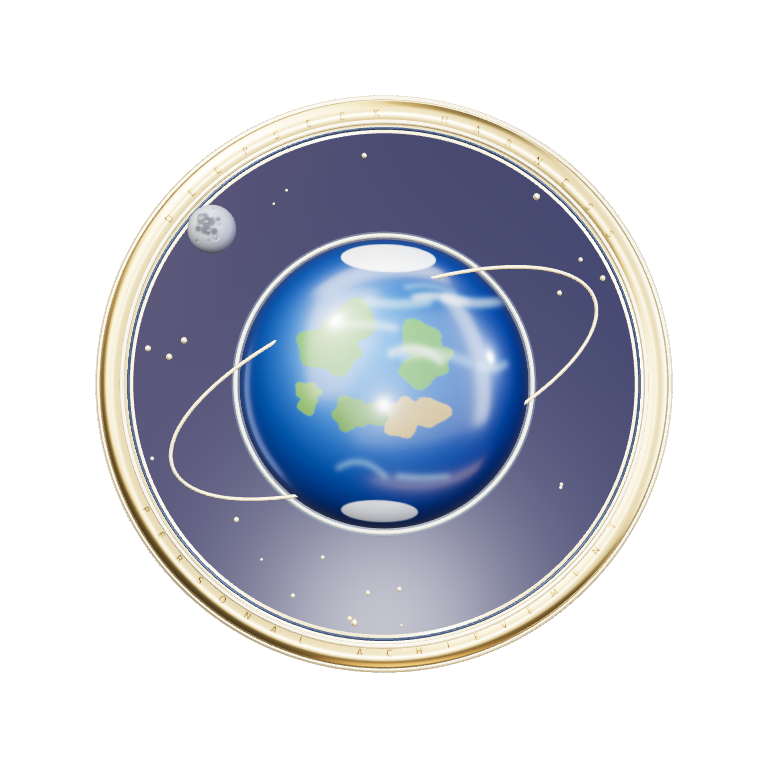
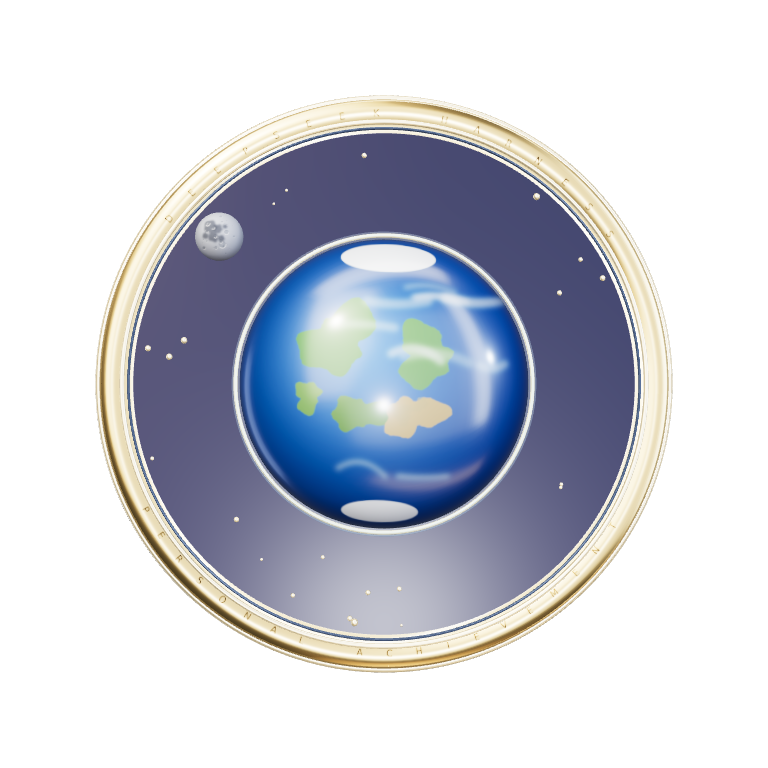
feat: replace the black hole tier with the Solar System, drop orbit rings
- 3B monthly tier becomes 行星巡礼 (Grand Tour): the Sun at the upper left
  and the eight planets in order along a diagonal, Saturn with tilted
  rings, no drawn orbits. Design id blackhole -> solarsystem.
- Earth and Sun medals: companions are full spheres; the orbit rings,
  which are not physical and clipped through Earth, are removed.
- ADR 0004 records the revision; glossary, challenges doc and PRODUCT.md
  updated; fallback renders regenerated.

Claude-Session: https://claude.ai/code/session_017K4q8NCxxJiamcn8Hjb6MX

diff --git a/src/medal-renderer.js b/src/medal-renderer.js
@@ -71,7 +71,7 @@ function palette(medal) {
   if (medal.design === 'numeric') { const field = {daily:'#a21649',weekly:'#075b5d',monthly:'#482340',days:'#214e7d'}[medal.series] || '#265b9a'; return {metal:medal.metal==='gold'?'#c6a05b':'#bdc5ce',bright:medal.metal==='gold'?'#f3d18c':'#edf0f5',field,dark:medal.metal==='gold'?'#6c4a23':'#4a5665'}; }
   if (medal.locked) return { metal: '#7a8592', bright: '#c8d2db', field: '#18212c', dark: '#35404b' };
   const design=medal.design||medal.id;
-  const fields={evergreen:'#164b3c',compass:'#14394b',rosette:'#ede7d9',starfire:'#0e3a60',starchart:'#2a1d55',starriver:'#06071a',moon:'#0e1830',earth:'#0b1a33',sun:'#1c1026',blackhole:'#050509'};
+  const fields={evergreen:'#164b3c',compass:'#14394b',rosette:'#ede7d9',starfire:'#0e3a60',starchart:'#2a1d55',starriver:'#06071a',moon:'#0e1830',earth:'#0b1a33',sun:'#1c1026',solarsystem:'#07091a'};
   if(fields[design])return {metal:design==='compass'||design==='moon'?'#bdcddd':'#deb976',bright:design==='compass'||design==='moon'?'#edf4ff':'#ffe8b5',field:fields[design],dark:'#526078'};
   if (design === 'rise') return { metal: '#c8d9e3', bright: '#f3f5ff', field: '#103b35', dark: '#61778b' };
   if (design === 'dawn') return { metal: '#dfad76', bright: '#ffe0b0', field: '#25213c', dark: '#8d552f' };
@@ -87,9 +87,9 @@ function materials(medal) {
   const recess = new THREE.MeshStandardMaterial({ color: p.dark, metalness: 1, roughness: .37 });
   const enamel = new THREE.MeshPhysicalMaterial({ color: p.field, metalness: .34, roughness: .24, clearcoat: .92, clearcoatRoughness: .12, bumpMap: engineTurnedTexture(), bumpScale: .0014 });
   // Deep night-sky enamel: low reflectance so the field reads near-black under the studio light.
-  const field=['starriver','moon','earth','sun','blackhole'].includes(medal.design)&&!medal.locked?new THREE.MeshPhysicalMaterial({color:p.field,metalness:0,roughness:.42,specularIntensity:.25,clearcoat:.3,clearcoatRoughness:.22,iridescence:.35,iridescenceIOR:1.3,iridescenceThicknessRange:[380,620],bumpMap:enamel.bumpMap,bumpScale:.0014}):enamel;
+  const field=['starriver','moon','earth','sun','solarsystem'].includes(medal.design)&&!medal.locked?new THREE.MeshPhysicalMaterial({color:p.field,metalness:0,roughness:.42,specularIntensity:.25,clearcoat:.3,clearcoatRoughness:.22,iridescence:.35,iridescenceIOR:1.3,iridescenceThicknessRange:[380,620],bumpMap:enamel.bumpMap,bumpScale:.0014}):enamel;
   // Deeper cosmic fields: less specular so the enamel colour carries.
-  const depth={starfire:.55,starchart:.45,moon:.4,earth:.4,sun:.4,blackhole:.25}[medal.design];if(depth&&!medal.locked)enamel.specularIntensity=depth;
+  const depth={starfire:.55,starchart:.45,moon:.4,earth:.4,sun:.4,solarsystem:.3}[medal.design];if(depth&&!medal.locked)enamel.specularIntensity=depth;
   if(medallion){satin.metalness=.82;polished.metalness=.84;polished.roughness=.22;}
   return { satin, polished, recess, enamel:field, palette: p };
 }
@@ -647,11 +647,16 @@ function sunSurface(locked){
 }
 function bodyMaterial(canvas,options={}){const map=canvasTexture(canvas,true),bumpCanvas=paint(512,ctx=>ctx.drawImage(canvas,0,0,512,512));return new THREE.MeshPhysicalMaterial({color:'#ffffff',map,bumpMap:canvasTexture(bumpCanvas),bumpScale:.004,metalness:.05,roughness:.75,...options});}
 function starfield(group,m,seed,count,inner=.62,outer=.86){const random=seeded(seed);for(let i=0;i<count;i++){const a=random()*TAU,r=inner+random()*(outer-inner);bead(group,.005+random()*.009,r*Math.cos(a),r*Math.sin(a),.092,m.polished);}}
-function orbitPath(group,m,rx,ry,tilt,z,radius=.007){const path=[];for(let i=0;i<160;i++){const t=i/160*TAU;path.push(new THREE.Vector3(Math.cos(t)*rx,Math.sin(t)*ry,z+Math.sin(t)*.06));}const o=curveTube(group,path,radius,m.polished,true);o.rotation.z=tilt;return o;}
 function moonBody(group,medal,m){
   circularCase(group,medal,m);starfield(group,m,3,26,.66,.88);
   dome(group,.6,.086,.3,bodyMaterial(moonSurface(medal.locked),{bumpScale:.009,roughness:.9}));
   ring(group,.605,.012,.09,m.polished);
+}
+// A full sphere resting above the field, textured from the front like dome().
+function globe(group,radius,material,x,y){
+  const geometry=new THREE.SphereGeometry(radius,64,48),position=geometry.attributes.position,uv=geometry.attributes.uv;
+  for(let i=0;i<uv.count;i++)uv.setXY(i,position.getX(i)/radius*.5+.5,position.getY(i)/radius*.5+.5);
+  return mesh(group,geometry,material,x,y,.1+radius);
 }
 function earthBody(group,medal,m){
   circularCase(group,medal,m);starfield(group,m,4,22,.66,.88);
@@ -660,38 +665,59 @@ function earthBody(group,medal,m){
   // Thin atmosphere glow at the limb.
   const atmosphere=new THREE.MeshPhysicalMaterial({color:medal.locked?'#8a929c':'#7fc4ff',transparent:true,opacity:.35,roughness:.2,metalness:0});ring(group,.53,.018,.1,atmosphere);
   ring(group,.535,.008,.09,m.polished);
-  orbitPath(group,m,.8,.3,.42,.2);
-  const moon=dome(group,.085,0,.07,bodyMaterial(moonSurface(medal.locked)));moon.position.set(-.62,.52,.24);
+  globe(group,.085,bodyMaterial(moonSurface(medal.locked),{bumpScale:.003,roughness:.9}),-.6,.5);
 }
+function sunHalo(group,medal,radius,x=0,y=0){
+  if(medal.locked)return;
+  const halo=paint(512,(ctx,w)=>{const g=ctx.createRadialGradient(w/2,w/2,w*.3,w/2,w/2,w/2);g.addColorStop(0,'rgba(255,214,130,.9)');g.addColorStop(.35,'rgba(255,170,70,.35)');g.addColorStop(1,'rgba(255,120,40,0)');ctx.fillStyle=g;ctx.fillRect(0,0,w,w);});
+  mesh(group,new THREE.RingGeometry(radius*.98,radius*1.6,128,2),new THREE.MeshBasicMaterial({map:canvasTexture(halo,true),transparent:true,depthWrite:false,blending:THREE.AdditiveBlending,toneMapped:false}),x,y,.095);
+}
+function sunMaterial(locked){const surface=sunSurface(locked);return bodyMaterial(surface,{emissive:locked?'#000000':'#ffffff',emissiveMap:canvasTexture(surface,true),emissiveIntensity:locked?0:.55,roughness:.6});}
 function sunBody(group,medal,m){
   circularCase(group,medal,m);starfield(group,m,5,18,.7,.88);
-  const surface=sunSurface(medal.locked);
-  dome(group,.44,.086,.26,bodyMaterial(surface,{emissive:medal.locked?'#000000':'#ffffff',emissiveMap:canvasTexture(surface,true),emissiveIntensity:medal.locked?0:.55,roughness:.6}));
+  dome(group,.44,.086,.26,sunMaterial(medal.locked));
   // Corona as a soft halo plus a few prominences, so it never reads as the rays of 星火初燃.
-  const halo=paint(512,(ctx,w)=>{const g=ctx.createRadialGradient(w/2,w/2,w*.3,w/2,w/2,w/2);g.addColorStop(0,'rgba(255,214,130,.9)');g.addColorStop(.35,'rgba(255,170,70,.35)');g.addColorStop(1,'rgba(255,120,40,0)');ctx.fillStyle=g;ctx.fillRect(0,0,w,w);});
-  if(!medal.locked)mesh(group,new THREE.RingGeometry(.43,.7,128,2),new THREE.MeshBasicMaterial({map:canvasTexture(halo,true),transparent:true,depthWrite:false,blending:THREE.AdditiveBlending,toneMapped:false}),0,0,.095);
+  sunHalo(group,medal,.44);
   ring(group,.445,.01,.1,m.polished);
   const flare=new THREE.MeshPhysicalMaterial({color:medal.locked?'#8a929c':'#ff9a3c',emissive:medal.locked?'#000000':'#ff7a1a',emissiveIntensity:.6,roughness:.4,metalness:.2});
   for(const [a,size,spread] of [[.8,.17,.22],[2.7,.12,.16],[4.4,.15,.2],[5.6,.09,.12]]){const loop=[];for(let i=0;i<=28;i++){const t=i/28,r=.44+Math.sin(t*Math.PI)*size,b=a+(t-.5)*spread;loop.push(new THREE.Vector3(Math.cos(b)*r,Math.sin(b)*r,.12+Math.sin(t*Math.PI)*.04));}curveTube(group,loop,.014,flare);}
-  orbitPath(group,m,.84,.34,-.35,.18,.005);
-  const earth=dome(group,.07,0,.06,bodyMaterial(earthSurface(medal.locked),{roughness:.35,clearcoat:.8}));earth.position.set(.66,-.42,.22);
+  globe(group,.07,bodyMaterial(earthSurface(medal.locked),{roughness:.35,clearcoat:.8}),.64,-.44);
 }
-function blackholeBody(group,medal,m){
-  circularCase(group,medal,m);starfield(group,m,6,34,.2,.88);
-  const hot=paint(512,(ctx,s)=>{const g=ctx.createRadialGradient(s/2,s/2,s*.2,s/2,s/2,s/2);g.addColorStop(0,'rgba(255,250,235,1)');g.addColorStop(.18,'rgba(255,214,140,.95)');g.addColorStop(.45,'rgba(255,140,60,.7)');g.addColorStop(.75,'rgba(190,60,30,.35)');g.addColorStop(1,'rgba(120,30,20,0)');ctx.fillStyle=g;ctx.fillRect(0,0,s,s);});
-  const glow=new THREE.MeshBasicMaterial({map:canvasTexture(hot,true),transparent:true,depthWrite:false,side:THREE.DoubleSide,toneMapped:false,color:medal.locked?'#7a828c':'#ffffff',opacity:medal.locked?.4:1});
-  // Accretion disk tilted through the hole; the sphere hides its far side.
-  const disk=mesh(group,new THREE.RingGeometry(.26,.8,160,4),glow,0,0,.2);disk.rotation.set(-1.2,0,.18);
-  const shadow=new THREE.MeshBasicMaterial({color:'#000000'});
-  const hole=mesh(group,new THREE.SphereGeometry(.24,64,48),shadow,0,0,.2);
-  // Photon ring and the lensed arc of the far side of the disk.
-  const photon=new THREE.MeshBasicMaterial({color:medal.locked?'#9aa2ab':'#ffe2a8',toneMapped:false});
-  mesh(group,new THREE.TorusGeometry(.255,.006,8,160),photon,0,0,.2);
-  const arc=mesh(group,new THREE.TorusGeometry(.33,.03,12,120,Math.PI),glow,0,.02,.26);arc.scale.set(1.1,.95,.3);arc.rotation.z=.18;
-  ring(group,.86,.008,.1,m.polished);
-  // A star drifting in, trailing a stream into the disk.
-  const star=new THREE.MeshBasicMaterial({color:medal.locked?'#a7aeb6':'#bfe3ff',toneMapped:false});bead(group,.05,.62,.5,.2,star);
-  const stream=[];for(let i=0;i<=40;i++){const t=i/40,a=.68-t*1.9,r=.79-t*.38;stream.push(new THREE.Vector3(Math.cos(a)*r,Math.sin(a)*r*.55+.06,.2+t*.02));}curveTube(group,stream,.008,new THREE.MeshBasicMaterial({color:medal.locked?'#8a929c':'#ffd29a',transparent:true,opacity:.75,toneMapped:false}));
+// Planet faces painted as bands, patches and spots, lit from the upper left like the other bodies.
+function planetSurface(kind,locked){
+  return paint(512,(ctx,s)=>{
+    const random=seeded(kind.length*13+7),grey=c=>locked?'#8f969e':c;
+    const bands=colors=>{const h=s/colors.length;colors.forEach((c,i)=>{ctx.fillStyle=grey(c);ctx.fillRect(0,i*h,s,h+1);});ctx.filter='blur(6px)';ctx.drawImage(ctx.canvas,0,0);ctx.filter='none';};
+    if(kind==='mercury'){ctx.fillStyle=grey('#9a948d');ctx.fillRect(0,0,s,s);for(let i=0;i<40;i++){ctx.fillStyle='rgba(60,55,50,.35)';ctx.beginPath();ctx.arc(random()*s,random()*s,4+random()*18,0,TAU);ctx.fill();}}
+    else if(kind==='venus'){ctx.fillStyle=grey('#e6cb8e');ctx.fillRect(0,0,s,s);ctx.filter='blur(14px)';for(let i=0;i<10;i++){ctx.fillStyle=`rgba(${random()<.5?'255,240,200':'190,140,80'},.45)`;ctx.fillRect(0,random()*s,s,20+random()*40);}ctx.filter='none';}
+    else if(kind==='mars'){ctx.fillStyle=grey('#c4562f');ctx.fillRect(0,0,s,s);ctx.filter='blur(10px)';ctx.fillStyle='rgba(110,40,20,.55)';for(let i=0;i<6;i++)blob(ctx,random,random()*s,(.3+random()*.4)*s,(.08+random()*.1)*s);ctx.filter='none';ctx.fillStyle=grey('#f4eee6');ctx.beginPath();ctx.ellipse(s/2,s*.06,s*.18,s*.06,0,0,TAU);ctx.fill();}
+    else if(kind==='jupiter'){bands(['#e8d8bd','#c48a5f','#f1e4cc','#b06a46','#e9d3ad','#c99467','#f3e7d2','#b8794f','#e5cfaa','#cc9a70']);if(!locked){ctx.fillStyle='#b4532f';ctx.beginPath();ctx.ellipse(s*.62,s*.64,s*.11,s*.06,0,0,TAU);ctx.fill();}}
+    else if(kind==='saturn')bands(['#efe0b9','#d8bf8a','#f4e8c8','#c9ab73','#ecd9ab','#d3b880','#f1e3bd','#cdb27b']);
+    else if(kind==='uranus'){ctx.fillStyle=grey('#a6dfe6');ctx.fillRect(0,0,s,s);}
+    else if(kind==='neptune'){bands(['#3f63d2','#3456c4','#4a6fdc','#2f4fb8','#4366d6','#3354c0']);}
+    shade(ctx,s,.7);
+  });
+}
+// Sun at the upper left; planets descend along one diagonal, spaced by distance from the Sun.
+const SOLAR_SUN={x:-.45,y:.28,r:.3},SOLAR_DIRECTION=[Math.cos(-Math.PI/6),Math.sin(-Math.PI/6)];
+const solarPlanets=[['mercury',.38,.03],['venus',.47,.046],['earth',.57,.049],['mars',.66,.037],['jupiter',.84,.12],['saturn',1.07,.095],['uranus',1.25,.062],['neptune',1.36,.055]].map(([kind,k,r])=>[kind,SOLAR_SUN.x+SOLAR_DIRECTION[0]*k,SOLAR_SUN.y+SOLAR_DIRECTION[1]*k,r]);
+function solarsystemBody(group,medal,m){
+  circularCase(group,medal,m);starfield(group,m,7,34,.35,.88);
+  // The Sun sits at the upper left; the eight planets follow in order, without drawn orbits.
+  const {x:sx0,y:sy0,r:sr0}=SOLAR_SUN;
+  const sun=dome(group,sr0,.086,.19,sunMaterial(medal.locked));sun.position.set(sx0,sy0,.086);
+  sunHalo(group,medal,sr0,sx0,sy0);
+  const sunRing=ring(group,sr0+.005,.008,.1,m.polished);sunRing.position.set(sx0,sy0,.1);
+  for(const [kind,x,y,r] of solarPlanets){
+    const surface=kind==='earth'?earthSurface(medal.locked):planetSurface(kind,medal.locked);
+    globe(group,r,bodyMaterial(surface,{roughness:kind==='earth'?.35:.6,bumpScale:.001}),x,y);
+  }
+  // Saturn's rings, tilted so the near edge passes in front of the planet.
+  const [,sx,sy,sr]=solarPlanets[5];
+  const bandCanvas=paint(512,(ctx,w)=>{const g=ctx.createRadialGradient(w/2,w/2,w*.3,w/2,w/2,w/2);g.addColorStop(0,'rgba(0,0,0,0)');g.addColorStop(.1,'rgba(230,210,160,.85)');g.addColorStop(.45,'rgba(200,175,120,.55)');g.addColorStop(.55,'rgba(0,0,0,0)');g.addColorStop(.62,'rgba(235,220,180,.8)');g.addColorStop(.95,'rgba(190,165,110,.5)');g.addColorStop(1,'rgba(0,0,0,0)');ctx.fillStyle=g;ctx.fillRect(0,0,w,w);});
+  const rings=mesh(group,new THREE.RingGeometry(sr*1.25,sr*2.05,128,3),new THREE.MeshStandardMaterial({map:canvasTexture(bandCanvas,true),transparent:true,side:THREE.DoubleSide,roughness:.6,metalness:.2,color:medal.locked?'#9aa2ab':'#ffffff',depthWrite:false}),sx,sy,.1+sr);
+  // Tilt first, then turn the long axis across the diagonal so the rings clear Jupiter and Uranus.
+  rings.rotation.set(-1.2,0,Math.PI/3,'ZYX');
 }
 function glyphPath(text, transform = (x,y) => [x,y]) {
   const path = new THREE.ShapePath();
@@ -939,14 +965,14 @@ function drawFeatureLines(ctx,medal){
   }else if(design==='moon'){
     circle(0,0,.6);ctx.lineWidth=.012;for(const [x,y,r] of [[-.18,.16,.12],[.14,.1,.09],[-.05,-.2,.08],[.28,-.22,.05],[-.32,-.08,.045],[.05,.36,.04]])circle(x,y,r);
   }else if(design==='earth'){
-    circle(0,0,.52);ctx.lineWidth=.012;ctx.save();ctx.rotate(.42);ctx.beginPath();ctx.ellipse(0,0,.8,.3,0,0,TAU);ctx.stroke();ctx.restore();circle(-.62,.52,.085);
+    circle(0,0,.52);ctx.lineWidth=.012;circle(-.6,.5,.085);
     line([[-.3,.25],[-.12,.32],[-.05,.18],[-.2,.05],[-.32,.1]],true);line([[.1,.05],[.3,.12],[.32,-.1],[.15,-.22],[.05,-.1]],true);
   }else if(design==='sun'){
-    circle(0,0,.44);ctx.lineWidth=.012;for(let i=0;i<28;i++){const a=i/28*TAU,r=i%2?.55:.63;line([[Math.cos(a-.08)*.44,Math.sin(a-.08)*.44],[Math.cos(a)*r,Math.sin(a)*r],[Math.cos(a+.08)*.44,Math.sin(a+.08)*.44]]);}
-    ctx.save();ctx.rotate(-.35);ctx.beginPath();ctx.ellipse(0,0,.84,.34,0,0,TAU);ctx.stroke();ctx.restore();circle(.66,-.42,.07);
-  }else if(design==='blackhole'){
-    ctx.save();ctx.rotate(.18);ctx.beginPath();ctx.ellipse(0,0,.8,.28,0,0,TAU);ctx.stroke();ctx.beginPath();ctx.ellipse(0,0,.5,.17,0,0,TAU);ctx.stroke();
-    ctx.beginPath();ctx.ellipse(0,.02,.36,.31,0,Math.PI,TAU);ctx.stroke();ctx.restore();circle(0,0,.24);circle(.62,.5,.05);
+    circle(0,0,.44);ctx.lineWidth=.012;for(const [a,size,spread] of [[.8,.17,.22],[2.7,.12,.16],[4.4,.15,.2],[5.6,.09,.12]]){ctx.beginPath();for(let i=0;i<=28;i++){const t=i/28,r=.44+Math.sin(t*Math.PI)*size,b=a+(t-.5)*spread;i?ctx.lineTo(Math.cos(b)*r,Math.sin(b)*r):ctx.moveTo(Math.cos(b)*r,Math.sin(b)*r);}ctx.stroke();}
+    circle(.64,-.44,.07);
+  }else if(design==='solarsystem'){
+    circle(SOLAR_SUN.x,SOLAR_SUN.y,SOLAR_SUN.r);ctx.lineWidth=.012;for(const [,x,y,r] of solarPlanets)circle(x,y,r);
+    const [,sx,sy,sr]=solarPlanets[5];ctx.save();ctx.translate(sx,sy);ctx.rotate(Math.PI/3);ctx.beginPath();ctx.ellipse(0,0,sr*2.05,sr*.75,0,0,TAU);ctx.stroke();ctx.restore();
   }else if(design==='starfire'){
     ctx.lineWidth=.012;circle(0,0,.952);circle(0,0,.86);
     for(let i=0;i<12;i++){ctx.save();ctx.rotate(i*TAU/12);line([[0,.80],[.052,.16],[0,.10],[-.052,.16]],true);ctx.rotate(TAU/24);line([[0,.56],[.036,.16],[0,.10],[-.036,.16]],true);ctx.restore();}
@@ -982,7 +1008,7 @@ function buildMedal(medal) {
   const key = `${medal.id}:${medal.serial}:${medal.period}`;
   if (models.has(key)) return models.get(key);
   const group = new THREE.Group(), m = materialsFor(medal);
-  ({numeric:numericMedal,orbit,rise:growth,dawn,first:milestone,beyond,evergreen,compass,rosette:rosetteMedal,starfire,starchart,starriver,moon:moonBody,earth:earthBody,sun:sunBody,blackhole:blackholeBody}[medal.design||medal.id]||orbit)(group,medal,m);
+  ({numeric:numericMedal,orbit,rise:growth,dawn,first:milestone,beyond,evergreen,compass,rosette:rosetteMedal,starfire,starchart,starriver,moon:moonBody,earth:earthBody,sun:sunBody,solarsystem:solarsystemBody}[medal.design||medal.id]||orbit)(group,medal,m);
   models.set(key, group);
   return group;
 }

diff --git a/src/i18n.js b/src/i18n.js
@@ -60,9 +60,9 @@ export const dictionaries = {
     "series.monthlyVolume": "每月用量挑战",
     "shelf.monthlyVolume": "每月用量",
     "craft.moon": "立体月球浮出珐琅夜空，环形山与月海清晰可辨。",
-    "craft.earth": "蓝绿珐琅地球缓缓自转，月亮沿着倾斜的轨道相伴。",
-    "craft.sun": "金橙色太阳表面布满颗粒，日冕火舌环绕边缘，远处的地球沿轨道运行。",
-    "craft.blackhole": "深黑球体被发光吸积盘环绕，引力把光弯成弧，一颗恒星正被吸入。",
+    "craft.earth": "蓝绿珐琅地球披着一层薄薄的大气，月亮在一旁相伴。",
+    "craft.sun": "金橙色太阳表面布满颗粒，日冕光晕与日珥环绕边缘，远处是一颗小小的地球。",
+    "craft.solarsystem": "太阳在左，八大行星由近及远依次排开，土星托着光环，地球仍在其中。",
     "share": "分享",
     "shareTitle": "分享奖牌",
     "close": "关闭",
@@ -295,9 +295,9 @@ export const dictionaries = {
     "series.monthlyVolume": "Monthly usage",
     "shelf.monthlyVolume": "Monthly usage",
     "craft.moon": "A sculpted moon rises from an enamel night, its craters and maria clearly defined.",
-    "craft.earth": "A blue-green enamel Earth turns slowly, accompanied by its moon on a tilted orbit.",
-    "craft.sun": "A granulated golden sun wreathed in coronal flames, with Earth on a distant orbit.",
-    "craft.blackhole": "A black sphere ringed by a glowing accretion disk; gravity bends the light into an arc as a star falls in.",
+    "craft.earth": "A blue-green enamel Earth wrapped in a thin atmosphere, with its moon close by.",
+    "craft.sun": "A granulated golden sun with a soft corona and prominences, a small Earth in the distance.",
+    "craft.solarsystem": "The Sun at the left and the eight planets in order beyond it, Saturn carrying its rings and Earth among them.",
     "share": "Share",
     "shareTitle": "Share medal",
     "close": "Close",
@@ -457,7 +457,7 @@ export const dictionaries = {
     "medal.tokens-10B": "River of Stars",
     "medal.volume-month-500M": "Blue Home",
     "medal.volume-month-1B": "Solar Corona",
-    "medal.volume-month-3B": "Event Horizon",
+    "medal.volume-month-3B": "Grand Tour",
     "dailyName": "{amount}M in a day",
     "weekDaysName": "{days} days in a week",
     "perfectWeekName": "Perfect week",
@@ -487,7 +487,7 @@ export const dictionaries = {
     "inscription.moon": "Every small step leaves a little light",
     "inscription.earth": "A month of exploration, spun into a blue planet",
     "inscription.sun": "A month of light, gathered into a sun",
-    "inscription.blackhole": "A month so dense not even light escapes"
+    "inscription.solarsystem": "Eight worlds in a single month"
   }
 };
 

diff --git a/src/challenges.js b/src/challenges.js
@@ -11,7 +11,7 @@ const COSMIC=[
   {id:'moon',name:'月面漫游',metal:'silver',inscription:'每一小步，都留下一点光'},
   {id:'earth',name:'蔚蓝家园',metal:'gold',inscription:'一整个月的探索，绕成一颗蓝色星球'},
   {id:'sun',name:'日冕之光',metal:'gold',inscription:'把一个月的光，聚成一颗太阳'},
-  {id:'blackhole',name:'事件视界',metal:'gold',inscription:'连光都无法逃离的一个月'},
+  {id:'solarsystem',name:'行星巡礼',metal:'gold',inscription:'一个月，走完八颗行星'},
 ];
 function crafted(design){
   const {name,metal,inscription}=[...RULES,...COSMIC].find(rule=>rule.id===design)??{name:design,metal:'gold',inscription:'让每一份探索，都有自己的形状'};
@@ -31,7 +31,7 @@ CHALLENGES.push(
   {...crafted('moon'),id:'volume-month',series:'monthlyVolume',family:'period',unit:'month',metric:'tokens',target:200e6,number:'200M',grade:1},
   {...crafted('earth'),id:'volume-month-500M',series:'monthlyVolume',family:'period',unit:'month',metric:'tokens',target:500e6,number:'500M',grade:1},
   {...crafted('sun'),id:'volume-month-1B',series:'monthlyVolume',family:'period',unit:'month',metric:'tokens',target:1e9,number:'1B',grade:2},
-  {...crafted('blackhole'),id:'volume-month-3B',series:'monthlyVolume',family:'period',unit:'month',metric:'tokens',target:3e9,number:'3B',grade:2},
+  {...crafted('solarsystem'),id:'volume-month-3B',series:'monthlyVolume',family:'period',unit:'month',metric:'tokens',target:3e9,number:'3B',grade:2},
   {...crafted('rise'),id:'growth-week',series:'growth',family:'growth',unit:'week',metric:'growth',growth:1,minimum:5e6,number:'100',suffix:'%',grade:1},
   {...crafted('dawn'),id:'growth-month',series:'growth',family:'growth',unit:'month',metric:'growth',growth:2,minimum:20e6,number:'200',suffix:'%',grade:2}
 );

diff --git a/src/http.js b/src/http.js
@@ -1,7 +1,7 @@
 import {readFile} from 'node:fs/promises';
 
 const PREFIX='/api/dsh-medals';
-const STATIC=/^(?:index\.html|styles\.css|app\.js|i18n\.js|theme\.js|medal-renderer\.js|assets\/medals\/(?:orbit|rise|dawn|first|beyond|evergreen|compass|rosette|starfire|starchart|starriver|moon|earth|sun|blackhole|daily-[124]|week-days-[357]|days-(?:7|30)|month-days-(?:10|20))-(?:front|back)\.png)$/;
+const STATIC=/^(?:index\.html|styles\.css|app\.js|i18n\.js|theme\.js|medal-renderer\.js|assets\/medals\/(?:orbit|rise|dawn|first|beyond|evergreen|compass|rosette|starfire|starchart|starriver|moon|earth|sun|solarsystem|daily-[124]|week-days-[357]|days-(?:7|30)|month-days-(?:10|20))-(?:front|back)\.png)$/;
 const mime={html:'text/html; charset=utf-8',css:'text/css; charset=utf-8',js:'text/javascript; charset=utf-8',png:'image/png'};
 function trusted(req) {
   try {

diff --git a/test/challenges.test.js b/test/challenges.test.js
@@ -84,7 +84,7 @@ test('progress publishes fixed thresholds and ineligible growth', () => {
 
 test('monthly usage keeps 月面漫游 at 200M and adds three larger tiers',()=>{
   const monthly=challenges.CHALLENGES.filter(r=>r.series==='monthlyVolume');
-  assert.deepEqual(monthly.map(r=>[r.id,r.name,r.target]),[['volume-month','月面漫游',200e6],['volume-month-500M','蔚蓝家园',500e6],['volume-month-1B','日冕之光',1e9],['volume-month-3B','事件视界',3e9]]);
+  assert.deepEqual(monthly.map(r=>[r.id,r.name,r.target]),[['volume-month','月面漫游',200e6],['volume-month-500M','蔚蓝家园',500e6],['volume-month-1B','日冕之光',1e9],['volume-month-3B','行星巡礼',3e9]]);
   assert(monthly.every(r=>r.unit==='month'&&r.metric==='tokens'));
 });
 

diff --git a/test/i18n.test.js b/test/i18n.test.js
@@ -24,7 +24,7 @@ test('all 25 medal names translate without changing their identity or thresholds
   }
   assert.equal(en.medalName(CHALLENGES.find(r=>r.id==='volume-week')),'Stellar Orbit');
   assert.equal(en.medalName(CHALLENGES.find(r=>r.id==='tokens-500M')),'Endless Voyage');
-  assert.equal(en.medalName(CHALLENGES.find(r=>r.id==='volume-month-3B')),'Event Horizon');
+  assert.equal(en.medalName(CHALLENGES.find(r=>r.id==='volume-month-3B')),'Grand Tour');
   assert.equal(normalizeLocale('zh-Hans'),'zh');
   assert.equal(normalizeLocale('de-DE'),'en');
 });

diff --git a/PRODUCT.md b/PRODUCT.md
@@ -24,7 +24,7 @@ Installed in the DSH web profile, including DS Bot and dsh-web-mobile. A native 
 - No leaderboard, account-wide data assumption, or forced celebration during conversation.
 
 ## Brand Commitments
-Preserve the existing handcrafted high-detail medals. The gallery groups medals into series shelves (daily, weekly & monthly, qualified days, monthly usage, milestones & breakthroughs). Monthly usage tiers (200M/500M/1B/3B) are realistic celestial bodies — Moon, Earth, Sun, black hole — each carrying the previous tier as a companion, distinct from the abstract cosmic token milestones; new medals are announced by a gold prompt in the page header, and the featured stage slowly cycles through every earned medal, newest first, alongside the next goal. Add simpler, number-led collectible medals for easier challenges. Craft complexity progresses with challenge difficulty. Unlocked medals are real interactive 3D objects with metal and enamel. Locked medals show the outer case and recognizable internal motif lines, without full materials, reverse view or rotation.
+Preserve the existing handcrafted high-detail medals. The gallery groups medals into series shelves (daily, weekly & monthly, qualified days, monthly usage, milestones & breakthroughs). Monthly usage tiers (200M/500M/1B/3B) are realistic celestial bodies — Moon, Earth, Sun, the Solar System — each carrying the previous tier as a companion, distinct from the abstract cosmic token milestones; new medals are announced by a gold prompt in the page header, and the featured stage slowly cycles through every earned medal, newest first, alongside the next goal. Add simpler, number-led collectible medals for easier challenges. Craft complexity progresses with challenge difficulty. Unlocked medals are real interactive 3D objects with metal and enamel. Locked medals show the outer case and recognizable internal motif lines, without full materials, reverse view or rotation.
 
 Number-led medals serve daily and early consistency challenges. The 100-day edition is an evergreen tree with faceted jade leaves on a gold shield; its front and engraved reverse contain no numeral. The 365-day edition uses a compass. The 1B, 5B and 10B token milestones form a cosmic progression: Starfire (a beaded roundel of rays around an amber core), Star Chart (an eight-point frame around a graduated star chart) and River of Stars (a twelve-point double frame around a layered enamel galaxy); their tier appears only on the reverse. Each sculptural challenge has a distinct named motif, earnable through usage, growth and lifetime challenges. Challenges and earned records share one collection. A hidden, clearly labeled, read-only Debug preview (five taps on the gallery title) switches all medal appearances between earned and unearned states without changing real records.
 

diff --git a/docs/adr/0004-monthly-usage-series.md b/docs/adr/0004-monthly-usage-series.md
@@ -21,14 +21,14 @@
 | 200M | 月面漫游 | Lunar Journey | 月球 | — |
 | 500M | 蔚蓝家园 | Blue Home | 地球 | 月球 |
 | 1B | 日冕之光 | Solar Corona | 太阳 | 地球 |
-| 3B | 事件视界 | Event Horizon | 黑洞 | 被吸入的恒星 |
+| 3B | 行星巡礼 | Grand Tour | 太阳系 | 太阳与地球都在其中 |
 
 为了和用量累计系列（星火初燃、群星为图、星河万里）区分，两个系列使用不同的视觉语言：
 
 - **用量累计系列**：抽象的金属纹样，包括光芒、星图和旋臂。
 - **每月用量系列**：写实的立体球体，表面有真实质感，例如月面坑洞、地球的陆地与海洋、太阳表面的颗粒。每一档带上前一档的天体，作为轨道上的小伴星，表现尺度递进。
 
-第四档选黑洞：深色球体，外面一圈发光的倾斜吸积盘，盘的上沿被引力透镜弯成一道光弧。它和星河万里的旋臂、星火初燃的光芒都不重叠。
+第四档最初选了黑洞，后改为太阳系，见下方修订记录。
 
 「恒星轨道」（每周 50M）留在「里程与突破」组。
 
@@ -40,3 +40,11 @@
 
 - `volume-month` 改属新的「每月用量」系列，新增 `volume-month-500M`、`volume-month-1B`、`volume-month-3B` 三项挑战，挑战总数从 22 项增加到 25 项。
 - 升级后首次同步时，新档位按历史月份用量补发。已经结束的月份直接记为已读，只有当月达成的档位会播放揭晓。
+
+## 修订记录
+
+### 2026-10-24：第四档改为太阳系，去掉伴星轨道环
+
+- **黑洞改为太阳系**。黑洞版（纯黑球体、吸积盘和透镜光弧）上线后，视觉效果不理想。新版本名为「行星巡礼」（Grand Tour，取自旅行者号的行星大巡游）：太阳在左，八大行星由近及远排开，土星带环。构图和「日冕之光」（太阳居中）不同，太阳和地球都出现在画面中，延续了「带上前一档天体」的规则。
+- **不画轨道线**。地球、太阳两枚原来用一条金属环表示伴星轨道，这条环既不符合真实天体，还穿过了地球本体。现在都已去掉，太阳系也不画轨道线，这也避免和「恒星轨道」的轨道环造型重复。
+- **伴星改为完整球体**。原来的伴星是贴在底面上的半球，现在是浮在夜空中的完整球体。

diff --git a/docs/challenges.md b/docs/challenges.md
@@ -17,7 +17,7 @@
 
 共 25 项挑战，不把重复获得或日期版算作新的挑战款。普通挑战结构克制且以数字为主体；进阶增加几何层次；长期、完整月与高档里程碑使用精工收藏等级。
 
-日常、周常、月度 10/20 天与累计 7/30 天使用数字造型。具象精工主题对应当前挑战：周 50M「恒星轨道」、每月用量「月面漫游」「蔚蓝家园」「日冕之光」「事件视界」（月球、地球、太阳、黑洞，写实球体并以前一档天体为伴星，见 [ADR 0004](adr/0004-monthly-usage-series.md)）、周增长 100%「向上生长」、月增长 200%「破晓之势」、累计 100M「里程初章」、累计 500M「无尽远行」、累计 1B「星火初燃」、累计 5B「群星为图」、累计 10B「星河万里」。达标日里程碑、完美一月也使用雕塑造型版本。合计 10 项数字款、15 项雕塑款；雕塑挑战各有独立主题：常青之树、罗盘、珍珠花章、里程层阶、无尽环、星火、星图、星河、恒星轨道、月球、地球、太阳、黑洞、上升折面与破晓。
+日常、周常、月度 10/20 天与累计 7/30 天使用数字造型。具象精工主题对应当前挑战：周 50M「恒星轨道」、每月用量「月面漫游」「蔚蓝家园」「日冕之光」「行星巡礼」（月球、地球、太阳、太阳系，写实球体并以前一档天体为伴星，见 [ADR 0004](adr/0004-monthly-usage-series.md)）、周增长 100%「向上生长」、月增长 200%「破晓之势」、累计 100M「里程初章」、累计 500M「无尽远行」、累计 1B「星火初燃」、累计 5B「群星为图」、累计 10B「星河万里」。达标日里程碑、完美一月也使用雕塑造型版本。合计 10 项数字款、15 项雕塑款；雕塑挑战各有独立主题：常青之树、罗盘、珍珠花章、里程层阶、无尽环、星火、星图、星河、恒星轨道、月球、地球、太阳、太阳系、上升折面与破晓。
 
 达标日从启用挑战的当天开始累计。首个不完整周期可参与够得着的天数档；完美周/月必须完整观察整个周期，且结束后授予。历史绝对用量与增长正常回算。首次回算安静补发，所有挑战与获得记录统一展示在收藏馆。
 

diff --git a/docs/glossary.md b/docs/glossary.md
@@ -39,6 +39,6 @@
 | 档位 | 名称 | 英文名 | 造型 |
 | --- | --- | --- | --- |
 | 200M | 月面漫游 | Lunar Journey | 月球：月海、环形山与辐射纹 |
-| 500M | 蔚蓝家园 | Blue Home | 地球，伴月球 |
+| 500M | 蔚蓝家园 | Blue Home | 地球与大气层，伴月球 |
 | 1B | 日冕之光 | Solar Corona | 太阳，日冕光晕与日珥，伴地球 |
-| 3B | 事件视界 | Event Horizon | 黑洞，吸积盘与透镜光弧，伴一颗被吸入的恒星 |
+| 3B | 行星巡礼 | Grand Tour | 太阳系：太阳与八大行星，土星带环，不画轨道线 |
